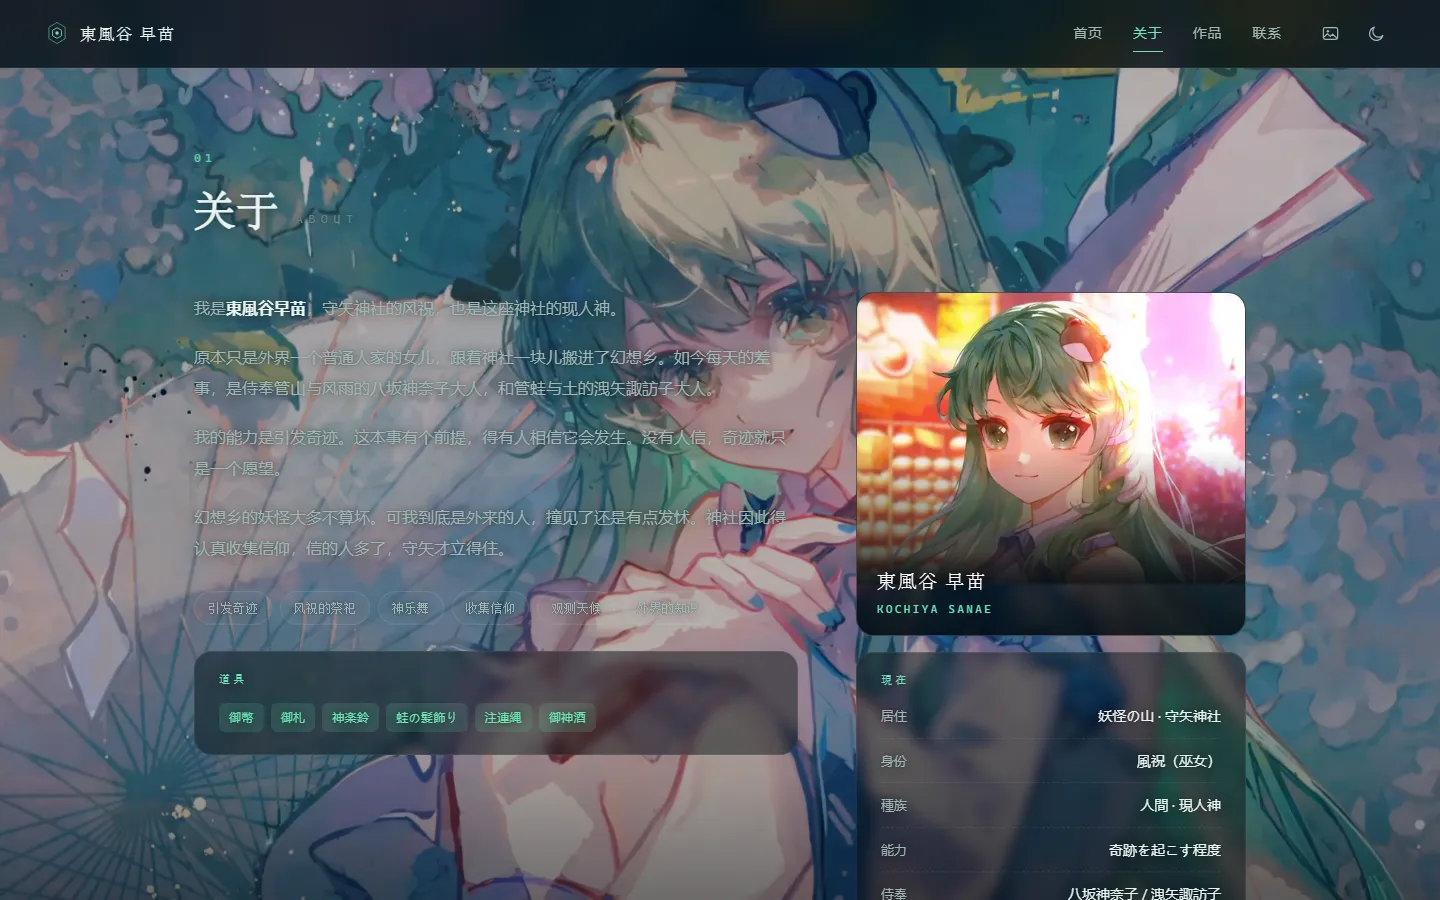
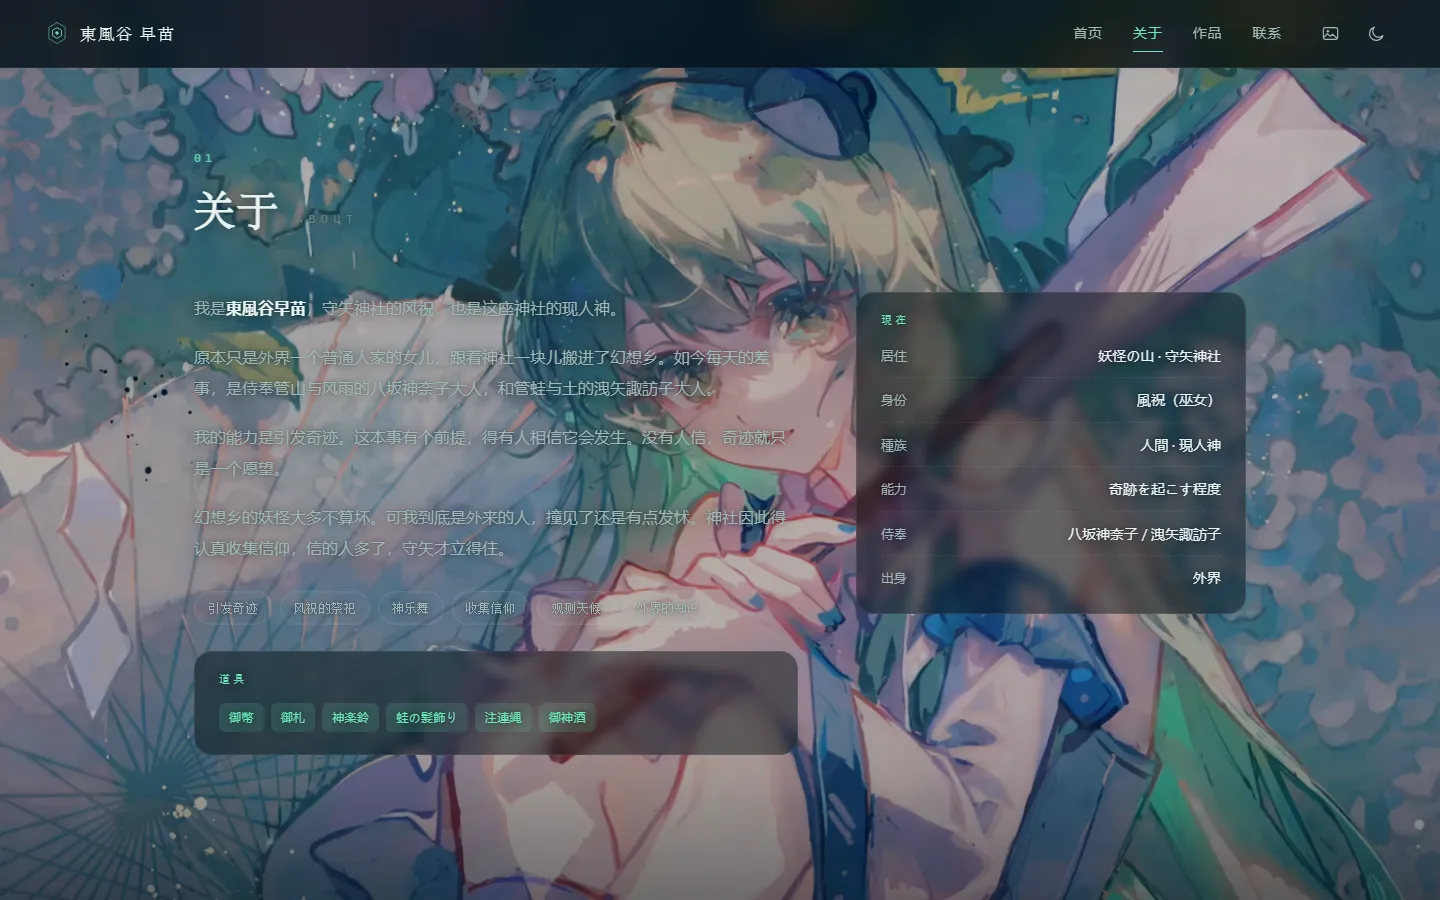
删掉关于页的早苗照片，连带清掉它的样式和壁纸脚本里的头像例外

Changed region(s): [[0.5938, 0.3111, 0.875, 1.0]]

diff --git a/assets/css/style.css b/assets/css/style.css
@@ -1846,7 +1846,6 @@ main { position: relative; z-index: 10; }
   .hero-vertical { display: none; }
   .about-grid { grid-template-columns: 1fr; }
   .now-grid { grid-template-columns: 1fr; }
-  .about-side { grid-template-columns: 1fr 1fr; }
 }
 
 @media (max-width: 820px) {
@@ -1888,8 +1887,6 @@ main { position: relative; z-index: 10; }
   .hero-desc { font-size: .93rem; }
   .hero-meta { gap: 8px 18px; margin-top: 34px; }
   .scroll-cue { display: none; }
-
-  .about-side { grid-template-columns: 1fr; }
 
   .post-row {
     grid-template-columns: 1fr auto;
@@ -1935,84 +1932,7 @@ main { position: relative; z-index: 10; }
 }
 
 /* ==========================================================================
-   14. 关于页头像
-   ========================================================================== */
-
-/* ---------- 关于页头像卡 ---------- */
-.side-portrait {
-  padding: 0;
-  overflow: hidden;
-  position: relative;
-}
-.side-portrait .portrait-frame {
-  position: relative;
-  display: block;
-  overflow: hidden;
-  background: var(--bg-elev);
-}
-.side-portrait img {
-  display: block;
-  width: 100%;
-  height: auto;
-  aspect-ratio: 4 / 3;
-  object-fit: cover;
-  object-position: 50% 34%;
-  transition: transform .9s var(--ease), filter .5s var(--ease);
-}
-.side-portrait:hover img { transform: scale(1.045); }
-.side-portrait .portrait-frame::after {
-  content: "";
-  position: absolute;
-  inset: auto 0 0 0;
-  height: 46%;
-  background: linear-gradient(180deg, transparent, rgba(3, 12, 17, .82));
-  pointer-events: none;
-}
-.portrait-meta {
-  padding: 14px 20px 17px;
-  display: grid;
-  gap: 3px;
-  position: relative;
-  margin-top: -34px;
-  z-index: 1;
-  /* 卡片本身是透明的，这行字有一半落在图片外面，
-     壁纸透过来就糊了，所以自己带一层从透明到暗的渐变接住 */
-  background: linear-gradient(180deg,
-    rgba(3, 12, 17, 0)    0px,
-    rgba(3, 12, 17, .52)  32px,
-    rgba(3, 12, 17, .78)  100%);
-}
-[data-theme="light"] .portrait-meta {
-  background: linear-gradient(180deg,
-    rgba(243, 248, 246, 0)    0px,
-    rgba(243, 248, 246, .62)  32px,
-    rgba(243, 248, 246, .86)  100%);
-}
-[data-theme="light"] .portrait-name { color: #10262b; text-shadow: 0 1px 10px rgba(255, 255, 255, .8); }
-[data-theme="light"] .portrait-role { color: #0a7d5e; }
-.portrait-name {
-  font-family: var(--font-display);
-  font-size: 1.18rem;
-  letter-spacing: .09em;
-  color: #fff;
-  text-shadow: 0 2px 14px rgba(0, 0, 0, .6);
-}
-.portrait-role {
-  font-family: var(--font-mono);
-  font-size: .66rem;
-  letter-spacing: .26em;
-  text-transform: uppercase;
-  color: var(--accent);
-}
-[data-theme="light"] .portrait-meta { margin-top: -30px; }
-
-/* 减少动态效果 */
-@media (prefers-reduced-motion: reduce) {
-  .side-portrait img { transition: none; }
-}
-
-/* ==========================================================================
-   15. 移动端收尾修正
+   14. 移动端收尾修正
    --------------------------------------------------------------------------
    手机上文字铺满整行、位置偏下，而且画被竖屏裁过一遍、亮的地方更集中，
    所以遮罩比桌面多压一点：顶底两条稍重，中间仍然尽量透。

diff --git a/index.html b/index.html
@@ -354,16 +354,6 @@
     </div>
 
     <aside class="about-side reveal">
-      <div class="side-card side-portrait">
-        <span class="portrait-frame">
-          <img src="assets/img/wallpaper/avatar-sanae.webp" width="512" height="512"
-               alt="东风谷早苗" loading="lazy" decoding="async">
-        </span>
-        <div class="portrait-meta">
-          <span class="portrait-name">東風谷 早苗</span>
-          <span class="portrait-role">Kochiya Sanae</span>
-        </div>
-      </div>
       <div class="side-card">
         <h3 class="side-card-title">現在</h3>
         <dl class="fact-list" id="factList"></dl>

diff --git a/README.md b/README.md
@@ -48,7 +48,7 @@ sanae-site/
     │   └── app.js             渲染与交互
     ├── img/
     │   ├── favicon.svg
-    │   └── wallpaper/         壁纸三档尺寸和头像
+    │   └── wallpaper/         壁纸各档尺寸
     └── video/
         ├── hydrangea-loop-720.mp4   循环视频，382 KB
         ├── hydrangea-loop-poster.webp
@@ -198,7 +198,7 @@ copy 你的图.jpg assets\img\wallpaper\
 powershell -ExecutionPolicy Bypass -File tools\add-wallpaper.ps1
 ```
 
-它按 16:9 裁出 640 / 1280 / 2560 三档 webp，生成一张 24px 的模糊占位图，再把清单写进 `assets/js/wallpaper-extra.js`。已经切好的文件、`avatar-*` 会被跳过，重复跑没问题。源图够大的话，自己补一档 3840 更清楚。
+它按 16:9 裁出 640 / 1280 / 2560 三档 webp，生成一张 24px 的模糊占位图，再把清单写进 `assets/js/wallpaper-extra.js`。已经切好的文件会被跳过，重复跑没问题。源图够大的话，自己补一档 3840 更清楚。
 
 脚本是 UTF-8 带 BOM 的，用别的编辑器改它要保持 BOM，否则 PowerShell 5.1 读中文会报语法错。
 
